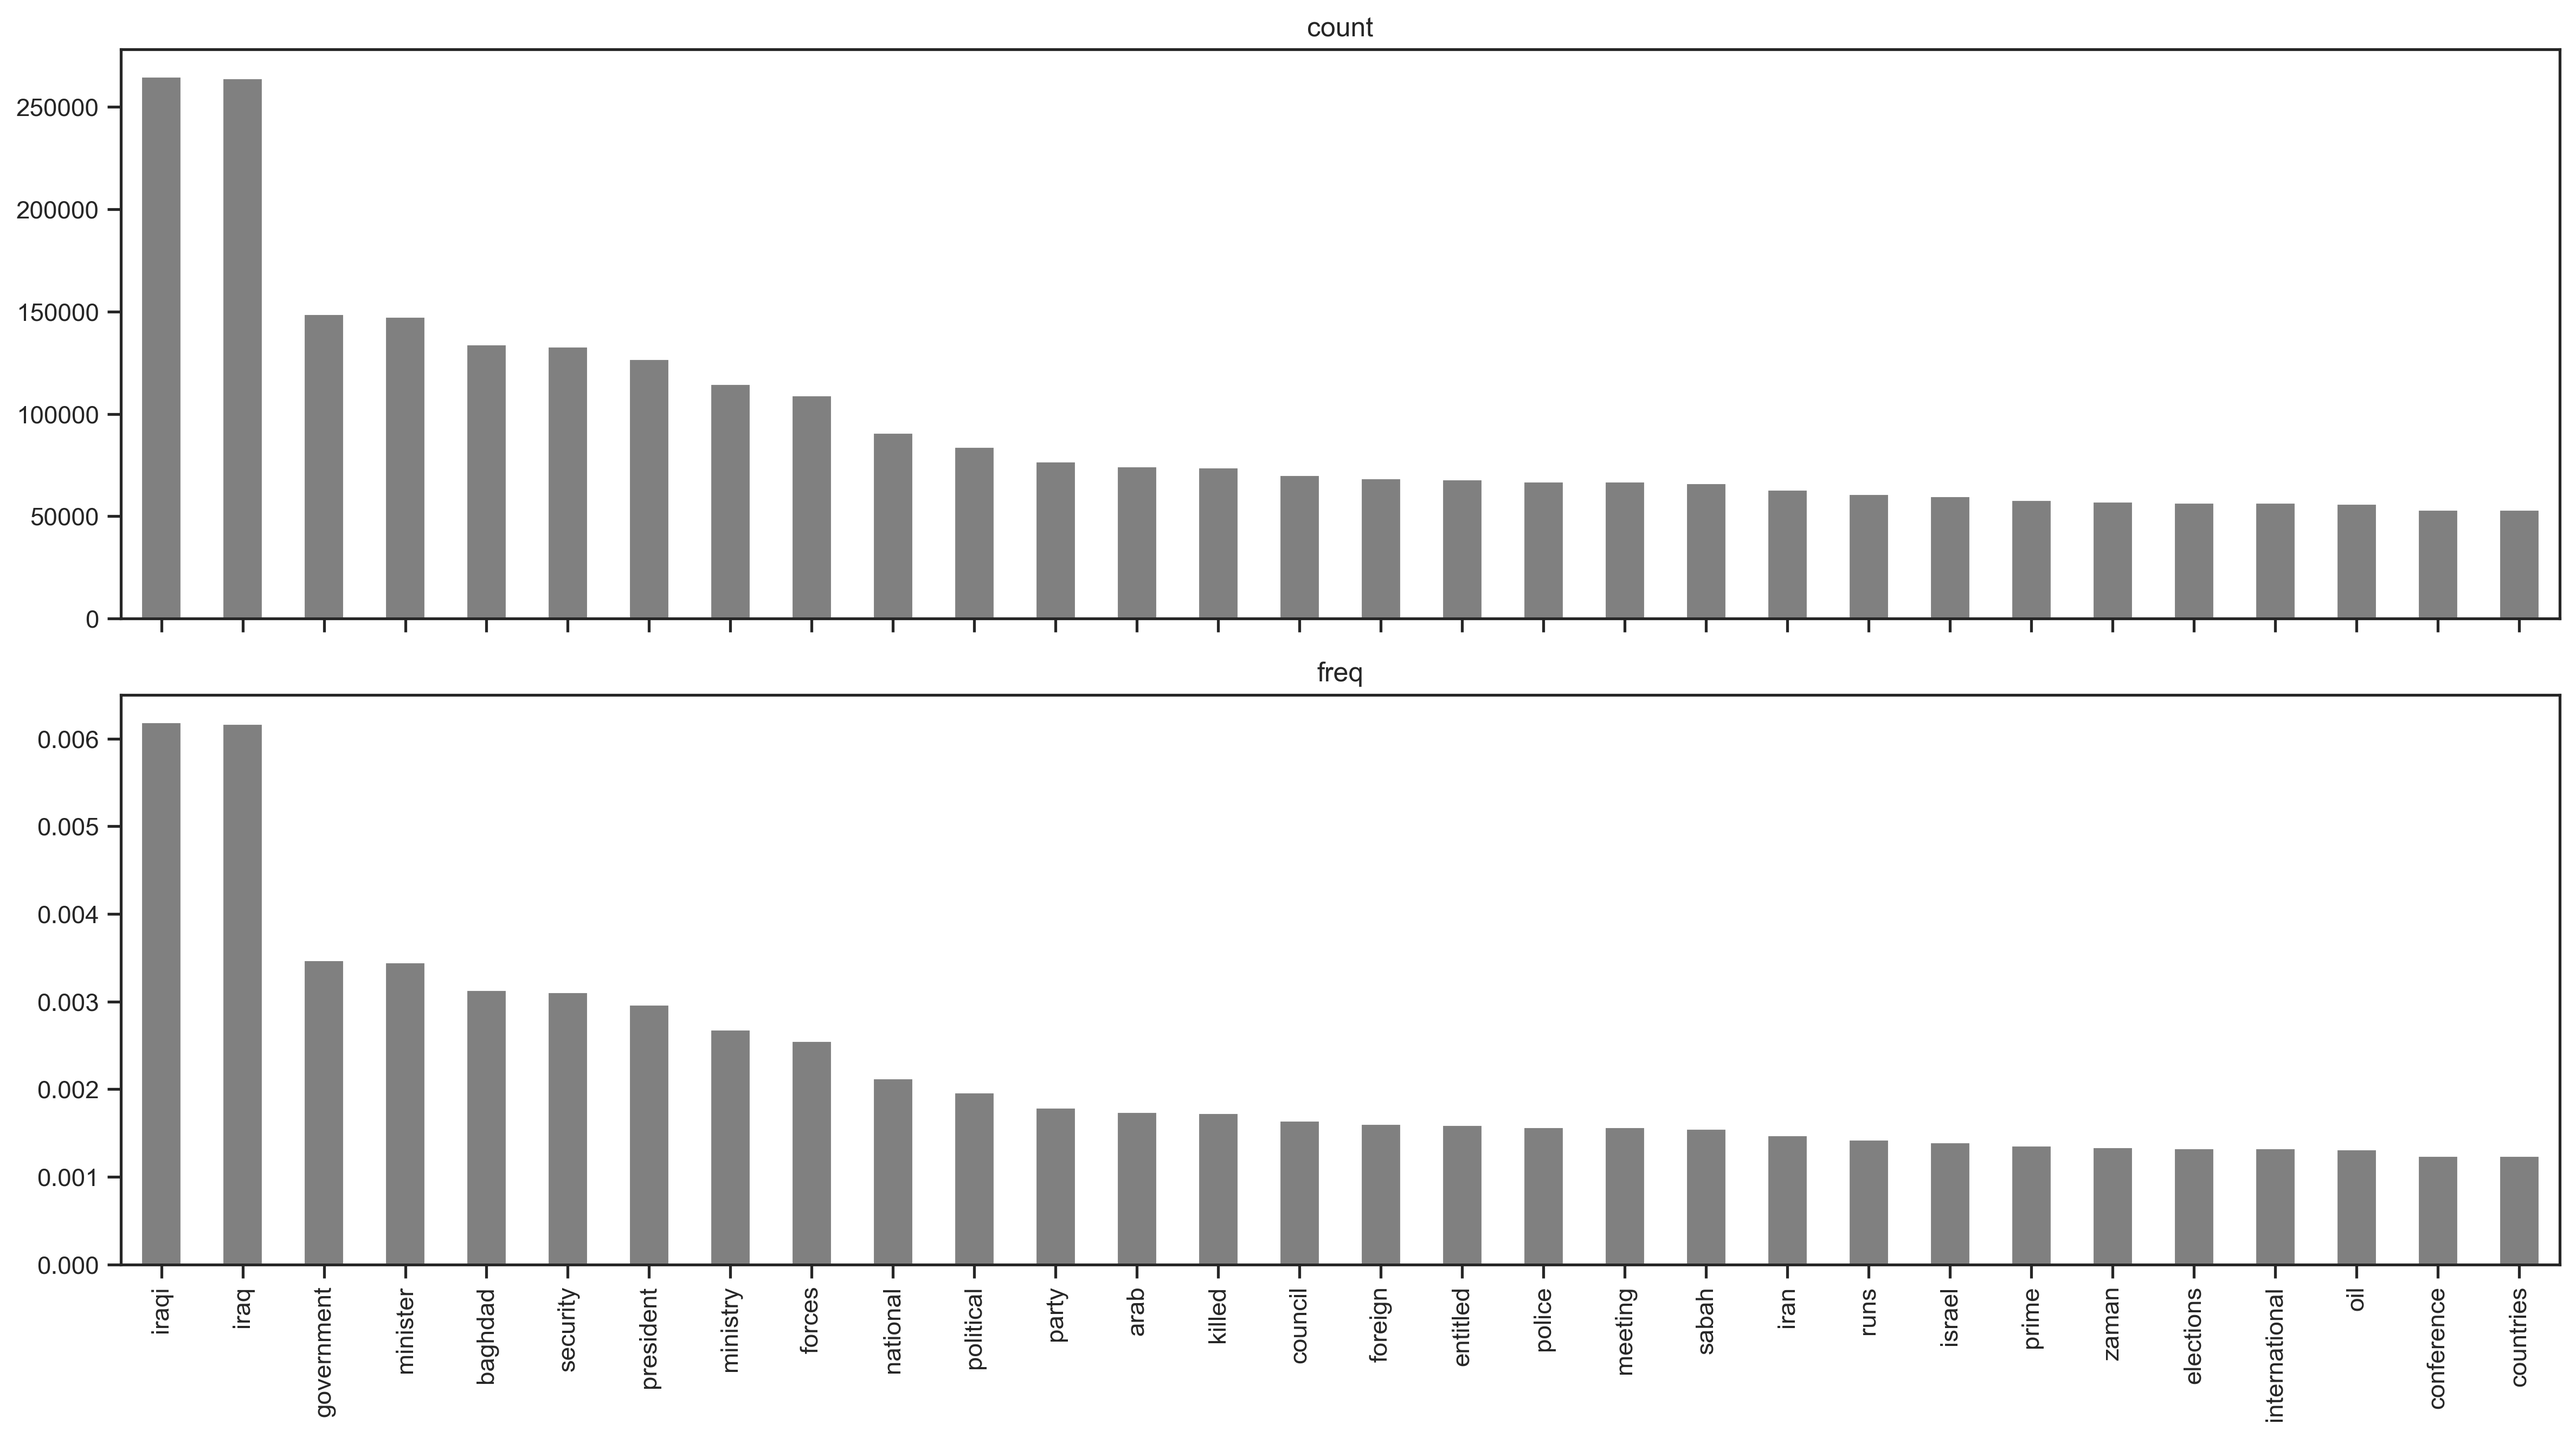
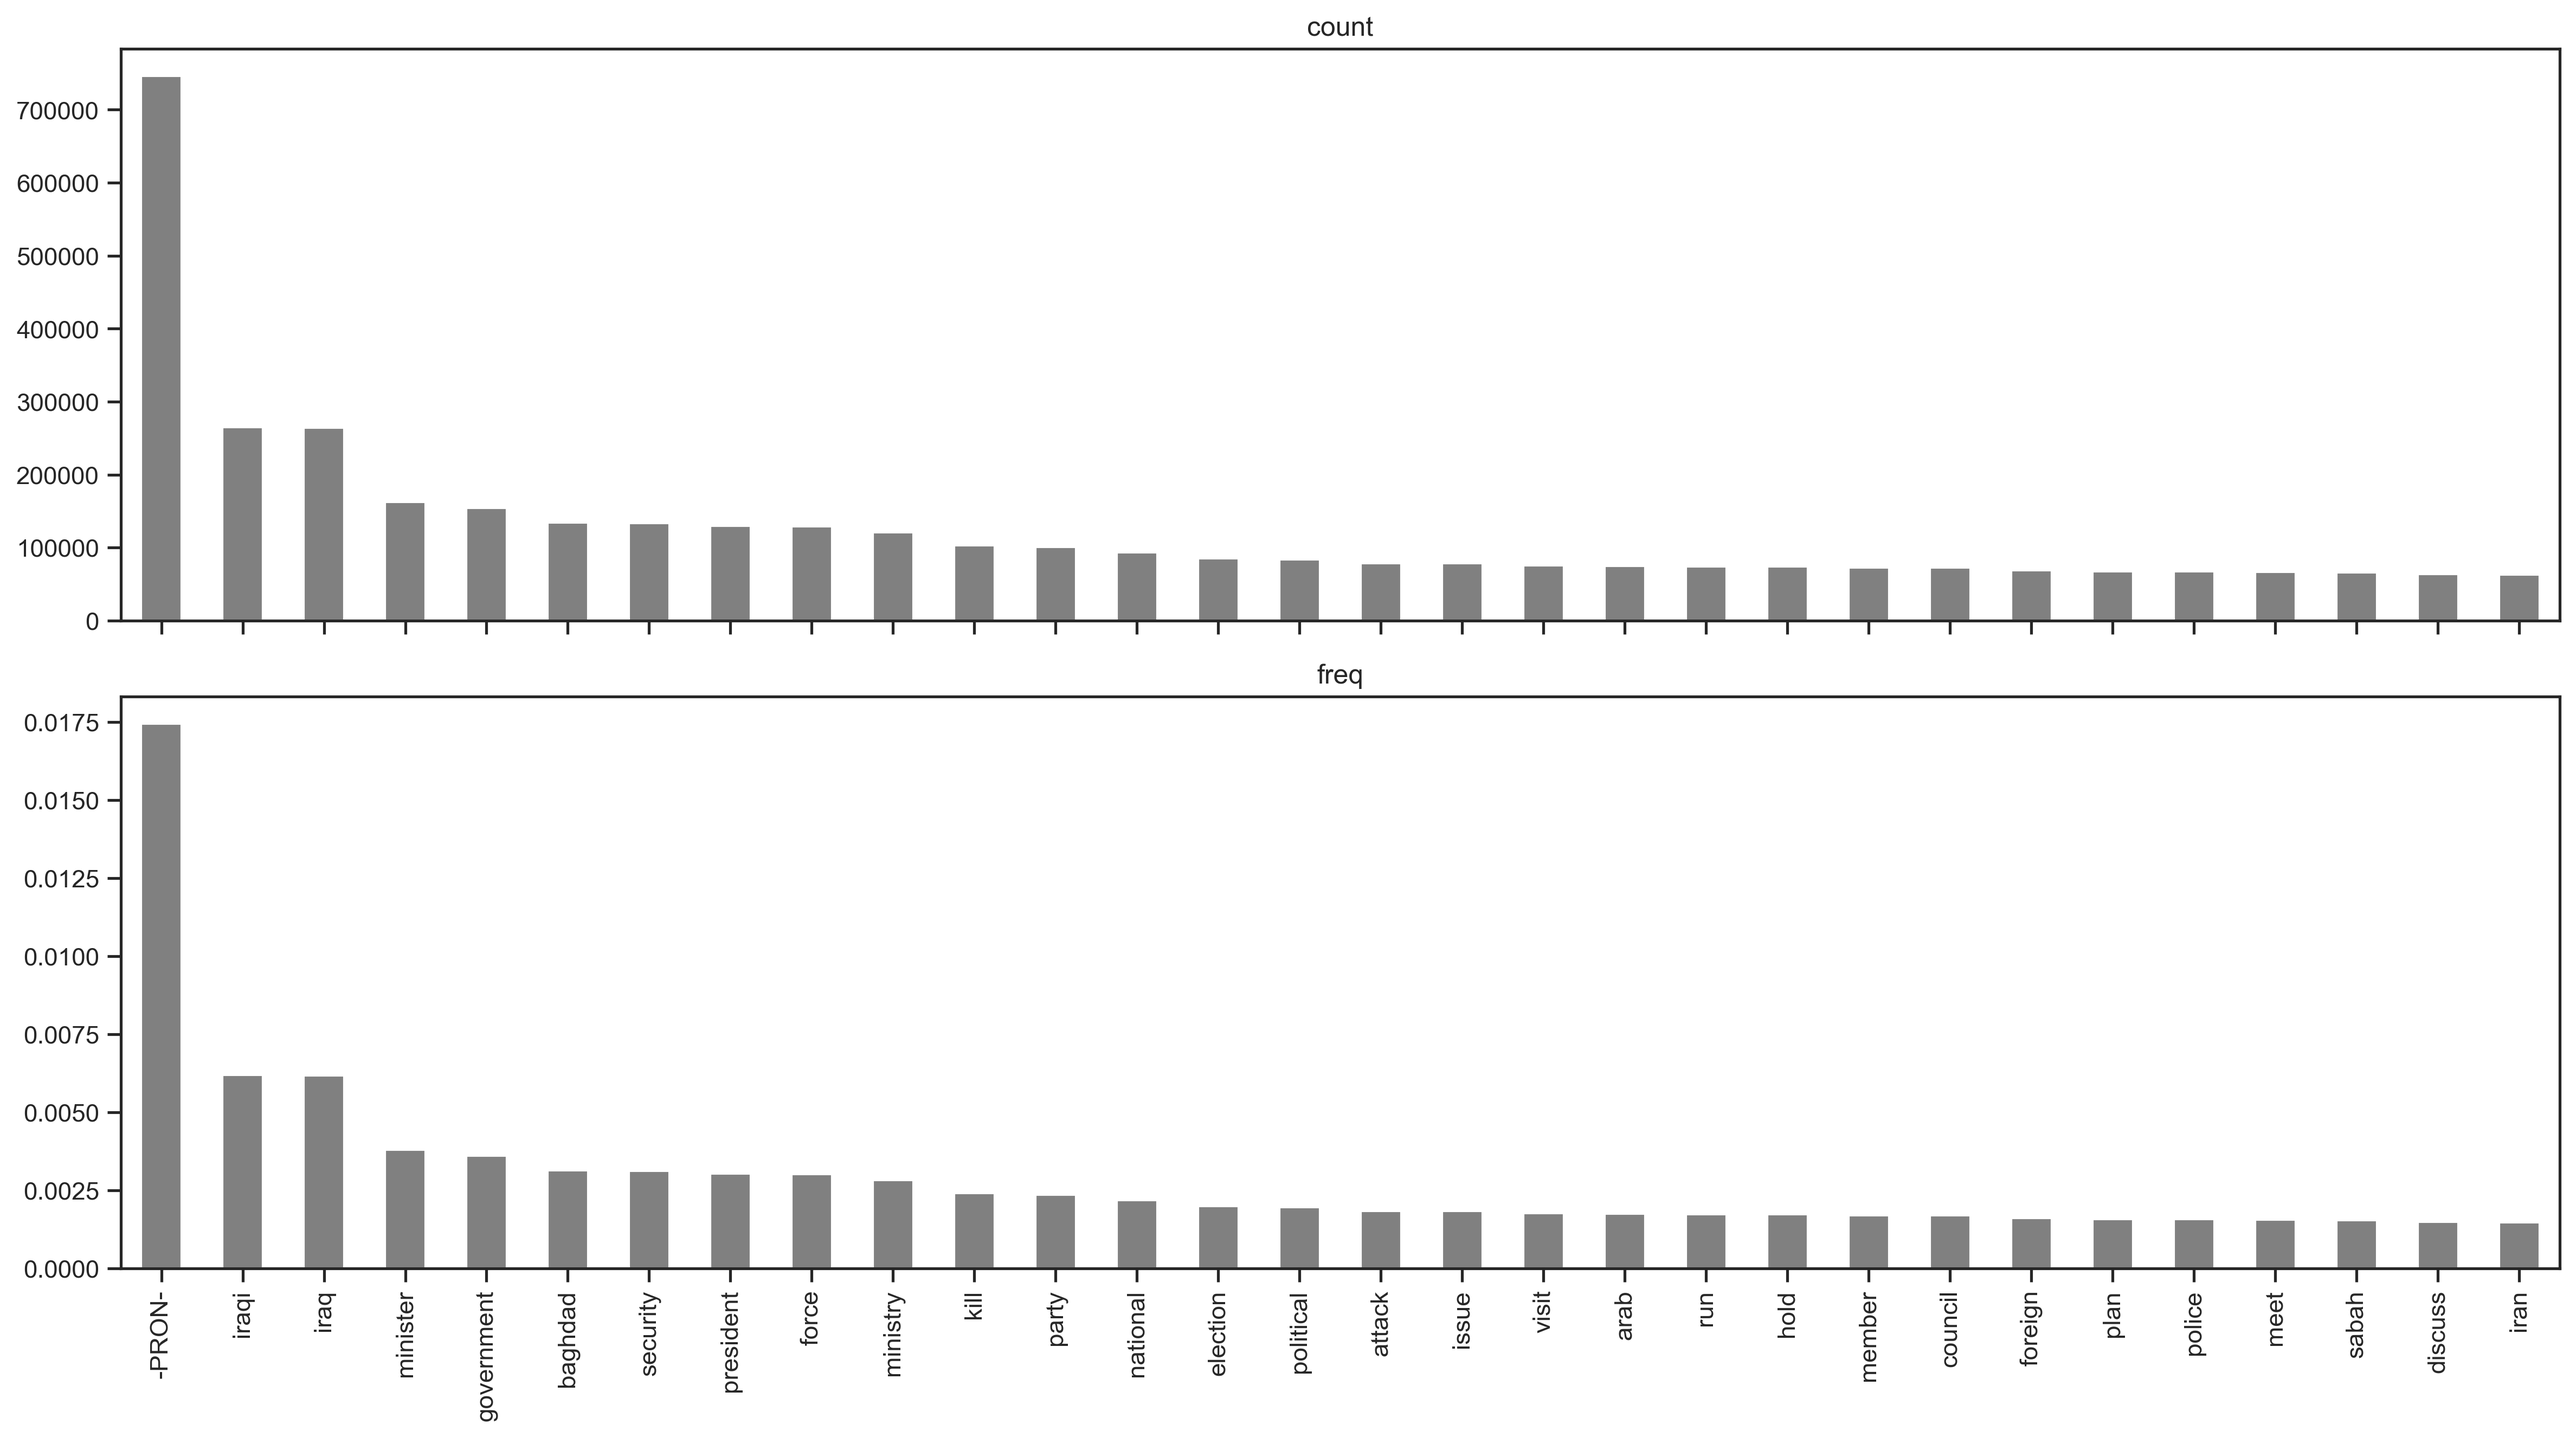
final commit

diff --git a/src/visualization/visualize.py b/src/visualization/visualize.py
@@ -11,10 +11,10 @@ def word_counts(corpus, data_dir=None, figure_dir=None, version=None, n=30):
 
     # calc
     word_counts_wcount = corpus.word_counts(
-        weighting="count", as_strings=True, normalize=None
+        weighting="count", as_strings=True, filter_nums=True, normalize="lemma"
     )
     word_counts_wfreq = corpus.word_counts(
-        weighting="freq", as_strings=True, normalize=None
+        weighting="freq", as_strings=True, filter_nums=True, normalize="lemma"
     )
 
     # df
@@ -85,13 +85,13 @@ def word_document_counts(
 
     # calc
     word_doc_counts_wfreq = corpus.word_doc_counts(
-        weighting="freq", as_strings=True
+        weighting="freq", as_strings=True, normalize="lemma"
     )
     word_doc_counts_wcount = corpus.word_doc_counts(
-        weighting="count", as_strings=True
+        weighting="count", as_strings=True, normalize="lemma"
     )
     word_doc_counts_widf = corpus.word_doc_counts(
-        weighting="idf", as_strings=True
+        weighting="idf", as_strings=True, normalize="lemma"
     )
 
     # df

diff --git a/src/pipeline.py b/src/pipeline.py
@@ -110,14 +110,16 @@ else:
 # -----------------------------------------------------------------------------
 # 3) Topic Modelling
 # -----------------------------------------------------------------------------
+compute_topic_models = False
 
-tm_permutation = predict_model.TopicModelPermutation(
-    grp_term_matrix=grp_term_matrix, vectorizer=vectorizer, version=version
-)
+if compute_topic_models:
+    tm_permutation = predict_model.TopicModelPermutation(
+        grp_term_matrix=grp_term_matrix, vectorizer=vectorizer, version=version
+    )
 
-tm_permutation.calc(
-    model_dir=model_dir, figure_dir=figure_dir, save=True, plot=True
-)
+    tm_permutation.calc(
+        model_dir=model_dir, figure_dir=figure_dir, save=True, plot=True
+    )
 
 # -----------------------------------------------------------------------------
 # 4) Visualise

diff --git a/src/models/predict_model.py b/src/models/predict_model.py
@@ -14,7 +14,7 @@ class TopicModelPermutation:
         self.version = version
 
         # sklearn.decomposition.<model>
-        self.model_types = ["nmf", "lsa", "lda"]
+        self.model_types = ["nmf", "lsa"]
 
         # cols = number of topics in the model to be initialized
         self.n_topics_list = [2, 3, 4, 5, 6, 7, 8, 9]
